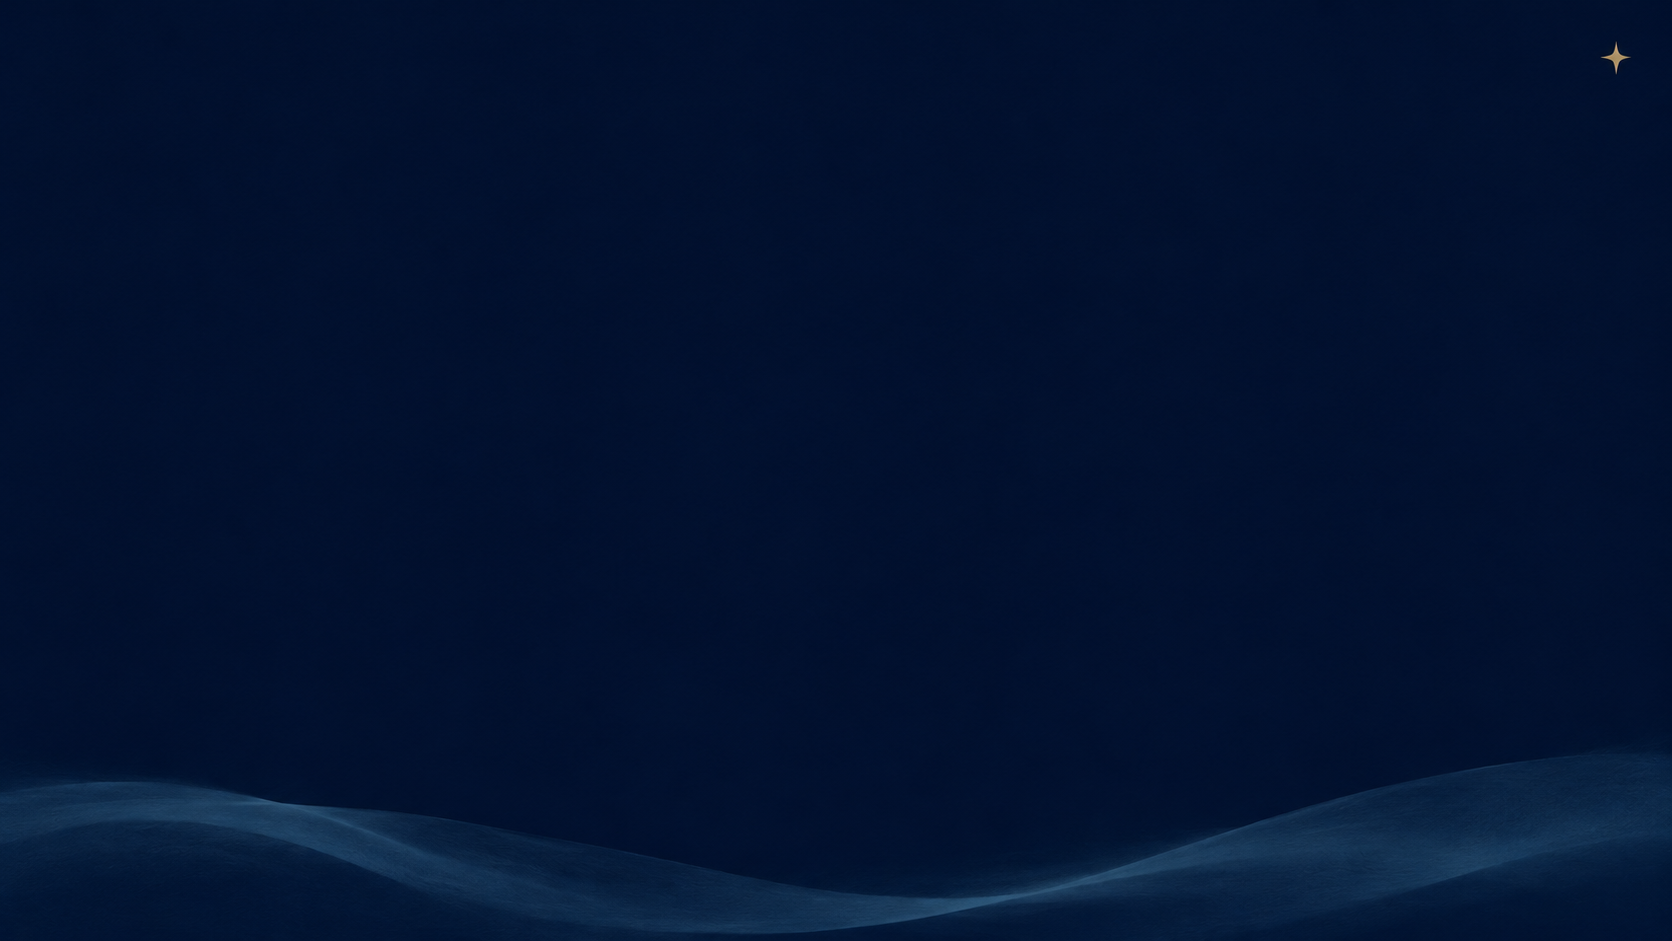
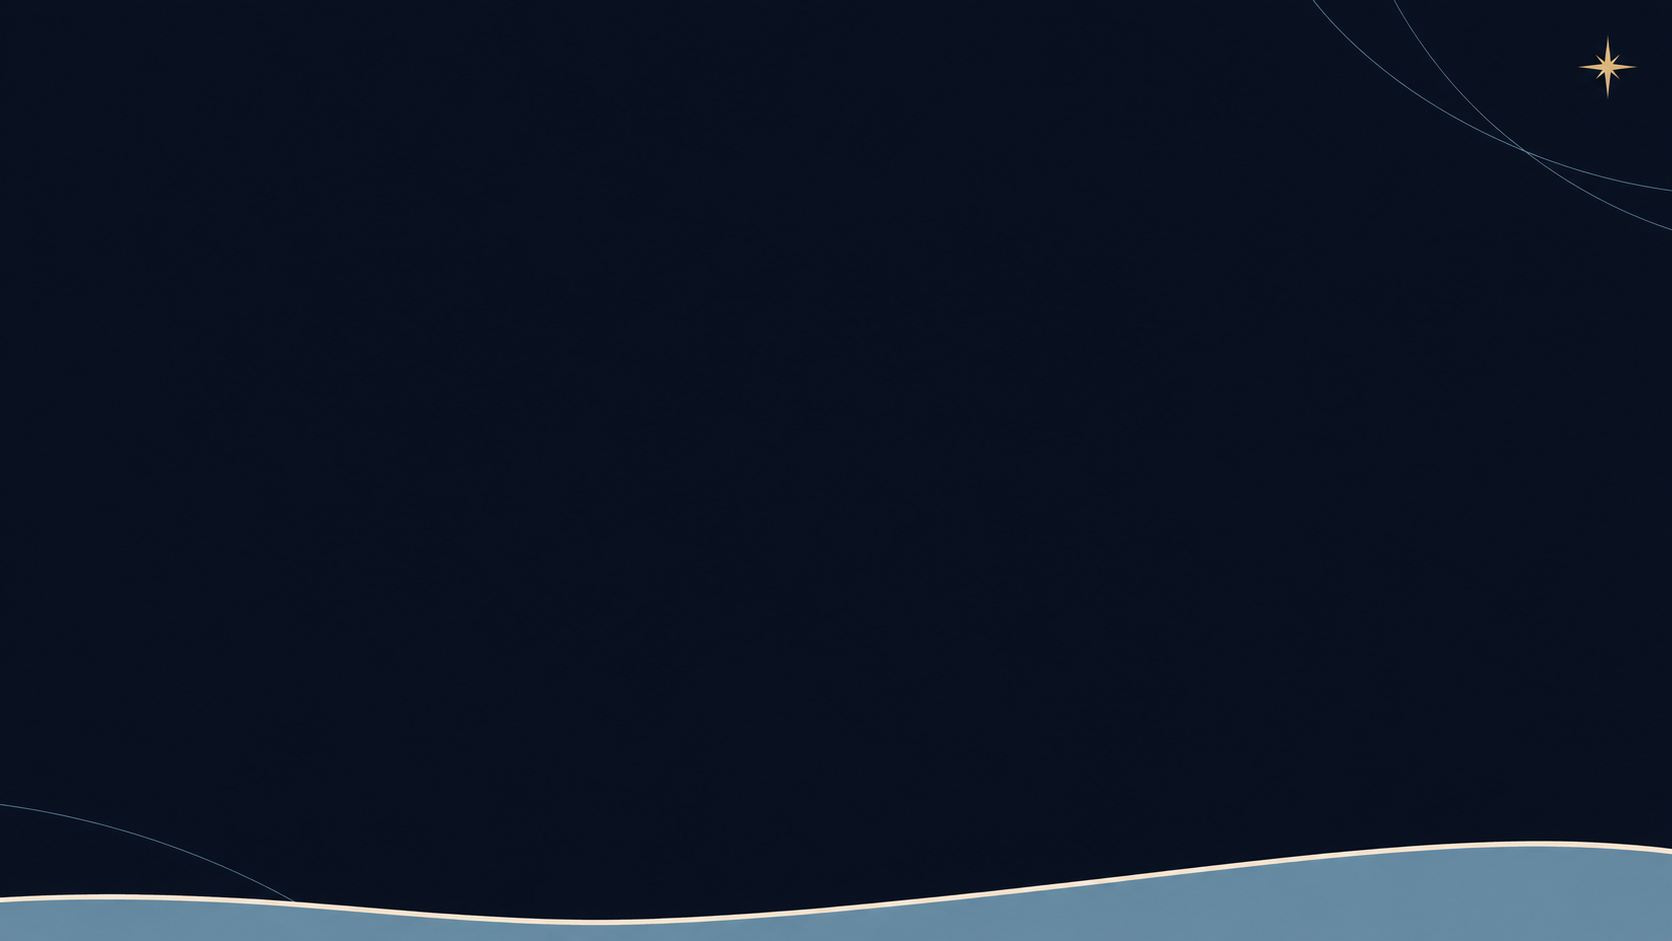
Refine dark and mobile Sky Vision backgrounds

diff --git a/assets/ASSET_REGISTER.md b/assets/ASSET_REGISTER.md
@@ -29,8 +29,8 @@
 | Inventory ID | File | QC result |
 |---|---|---|
 | BG-01 | `assets/production/BG/BG-01.png` | 1672×941 RGB; centered open circular 2D wave/cloud/orbit hero on midnight navy; draft, below 4K target. |
-| BG-02 | `assets/production/BG/BG-02.png` | 1672×941 RGB; visual pass as quiet dark background with clear center. |
-| BG-03 | `assets/production/BG/BG-03.png` | 1672×941 RGB; visual pass as quiet light background with clear text area. |
+| BG-02 | `assets/production/BG/BG-02.png` | Revised 1672×941 RGB; quiet navy negative space, fine corner orbits, small compass star and restrained lower 2D ribbon wave. Preview inspected; draft, not text-contrast tested or approved. |
+| BG-03 | `assets/production/BG/BG-03.png` | 1672×941 RGB; warm ivory with broad open area, quiet pale-blue wave and sparse gold stars. Batch preview inspected; draft, text-contrast/print not tested. |
 | BG-04 | `assets/production/BG/BG-04.png` | 1672×941 RGB; visual pass as quiet ivory utility background, open center, restrained lower wave/clouds and sparse gold orbit lines. Draft; not contrast-tested or approved. |
 | BG-05 | `assets/production/BG/BG-05.png` | 1672×941 RGB; quiet ivory document background with ample reading space and a single lower-right ribbon motif. Draft; not print-tested or approved. |
 | BG-07 | `assets/production/BG/BG-07.png` | 941×1672 RGB; warm light mobile wallpaper with lower circular 2D ribbon motif and clear upper field. Draft. |
@@ -42,7 +42,7 @@
 | IC-01 | `assets/production/IC/IC-01.png` | 1600×900 RGB; five primary navigation icon concepts on midnight navy. Rendered from editable `IC-01.svg`; draft, not tested at 16px. |
 | IC-02 | `assets/production/IC/IC-02.png` | 1600×900 RGB; Calendar, Files, Search, Alerts and Settings secondary navigation concepts. Rendered from editable `IC-02.svg`; draft, not tested at 16px. |
 | IC-03 | `assets/production/IC/IC-03.png` | 1600×900 RGB; Add Task, Edit, Complete, Due Date and Delete concepts. Rendered from editable `IC-03.svg`; preview inspected; draft, not tested at 16px. |
-| BG-06 | `assets/production/BG/BG-06.png` | 941×1672 RGB; visual pass as portrait dark wallpaper. |
+| BG-06 | `assets/production/BG/BG-06.png` | Revised 941×1672 RGB; 2D circular ivory/mist-blue ribbon with cloud curls and gold orbits; upper clock-safe area. Preview inspected; draft, device crop not tested. |
 | MO-01 | `assets/production/MO/MO-01-logo-signature.gif` | 640×640, 36 frames, 90 ms/frame, infinite loop; code-drawn animation, reviewed visually. |
 | MO-02 | `assets/production/MO/MO-02-orbit-loop.gif` | 640×640, 24 frames, 90 ms/frame, infinite loop; seam mean absolute RGB difference 0.18/255. |
 | IC-01 | `assets/production/IC/primary-navigation-icons.svg` | Original vector family of five navigation symbols; SVG parses and scales cleanly. |

diff --git a/production/ASSET_BACKLOG.md b/production/ASSET_BACKLOG.md
@@ -3,7 +3,7 @@
 **Status:** Proposed execution queue · 2026-11-06
 **Total:** 166 individually tracked deliverables across 14 families.
 **Current inventory snapshot:** 20 drafts, 146 queued, 0 approved (see `ASSET_INVENTORY.json`).
-**Active work:** All 12 background IDs now have repository PNG drafts. BG-09/10 PNG drafts are not pixel-seamless-certified; exact-repeat light/dark SVG masters are available under `assets/svg/`. LG-03 has an exploratory PNG and a separate editable SVG study; both remain unapproved.
+**Active work:** All 12 background IDs have repository PNG drafts. BG-02 and BG-06 were revised to align more closely with the 2D circular ribbon reference; BG-02/03/06 have received a batch visual QC pass. BG-09/10 PNG drafts are not pixel-seamless-certified; exact-repeat light/dark SVG masters are available under `assets/svg/`. LG-03 has an exploratory PNG and a separate editable SVG study; both remain unapproved.
 
 ## How to use this list
 

diff --git a/production/briefs/BG-06.md b/production/briefs/BG-06.md
@@ -1,0 +1,16 @@
+# BG-06 — Mobile dark celestial wallpaper
+
+**Status:** Revised draft · not approved  
+**Output:** `assets/production/BG/BG-06.png` · 941×1672 RGB PNG · portrait 9:16
+
+## Brief
+
+Create a phone wallpaper around the supplied Sky Vision 2D circular logo language: interwoven ivory/mist-blue ribbon ring, cloud curls, fine muted-gold orbits and compass stars. Preserve generous upper safe area for the clock and crop tolerance at the sides.
+
+## QC
+
+- [x] Decodes as RGB PNG at 941×1672, portrait 9:16.
+- [x] Full-frame preview visually inspected; circular ribbon remains the single focal subject.
+- [x] Large upper negative space and supplied palette confirmed.
+- [ ] Check common lock-screen crops and clock overlays on device.
+- [ ] Owner approval.

diff --git a/production/briefs/BG-02.md b/production/briefs/BG-02.md
@@ -1,0 +1,16 @@
+# BG-02 — Quiet secondary dark background
+
+**Status:** Revised draft · not approved  
+**Output:** `assets/production/BG/BG-02.png` · 1672×941 RGB PNG · 16:9
+
+## Brief
+
+Provide a calm midnight surface for product panels or text. Preserve generous negative space. Use only restrained 2D Sky Vision details: fine orbital arcs, a small compass star and a thin ivory/mist-blue ribbon wave near the lower edge. No logo lockup or text.
+
+## QC
+
+- [x] Decodes as RGB PNG at 1672×941, 16:9.
+- [x] Full-frame preview visually inspected; no clipped primary subject or obvious artifacts.
+- [x] Quiet center and muted brand palette confirmed.
+- [ ] Test text contrast with actual UI samples and crop in target layouts.
+- [ ] Owner approval.

diff --git a/production/briefs/BG-03.md b/production/briefs/BG-03.md
@@ -1,0 +1,16 @@
+# BG-03 — Primary light celestial background
+
+**Status:** Draft · not approved  
+**Output:** `assets/production/BG/BG-03.png` · 1672×941 RGB PNG · 16:9
+
+## Brief
+
+Create a quiet warm-ivory background with a broad open text area and one restrained mist-blue wave entering from the lower-right, accented by sparse muted-gold stars. Keep the language flat and two-dimensional.
+
+## QC
+
+- [x] Decodes as RGB PNG at 1672×941, 16:9.
+- [x] Full-frame preview visually inspected; no visible text or unrelated object.
+- [x] Clear open area and light brand palette confirmed.
+- [ ] Test dark text contrast over the full surface and print output.
+- [ ] Owner approval.
